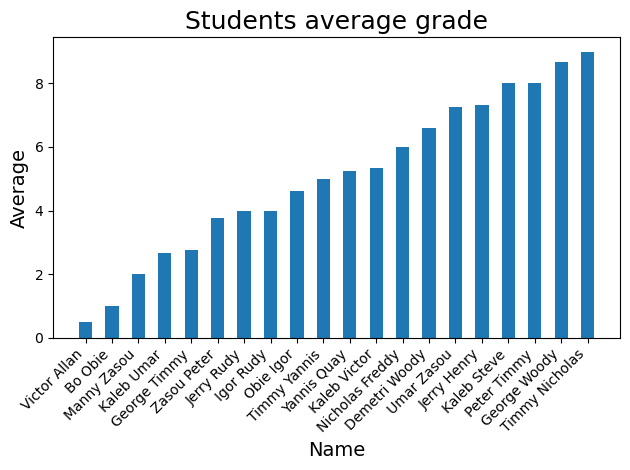
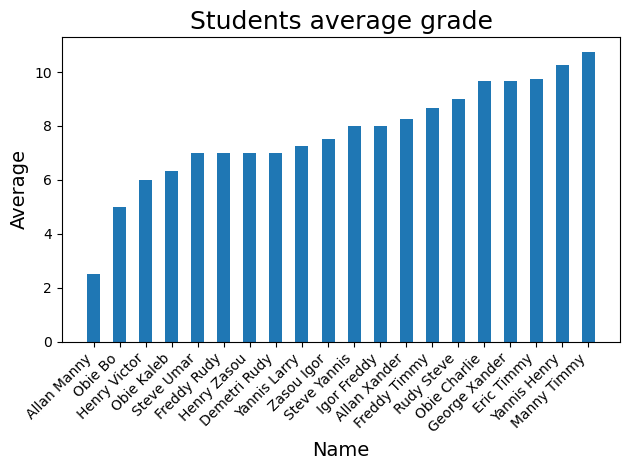
Added higher grades to ex3

diff --git a/my_modules/ex3/tools.py b/my_modules/ex3/tools.py
@@ -36,5 +36,8 @@ def create_n_number_of_students(n):
 
 
 def assign_random_grades():
-    # TODO: Make it less likely to return failing grades
-    return get_rand(GRADES)
+    # Made it less likely to return failing grades. If 2 or lower do a reroll once. Can technically still roll a failing grade again
+    grade = get_rand(GRADES)
+    if grade <= 2:
+        return get_rand(GRADES)
+    return grade

diff --git a/my_modules/ex3/assignment1.py b/my_modules/ex3/assignment1.py
@@ -24,9 +24,7 @@ class Student():
         grades = self.data_sheet.get_grades_as_list()
         
         return sum(grades) / len(grades)
-    
 
-        
 
 class DataSheet():
     
@@ -49,6 +47,7 @@ class DataSheet():
         
     def get_grades_as_list(self):
         return list([int(course.grade) for course in self.courses])
+
 
 class Course():
     
